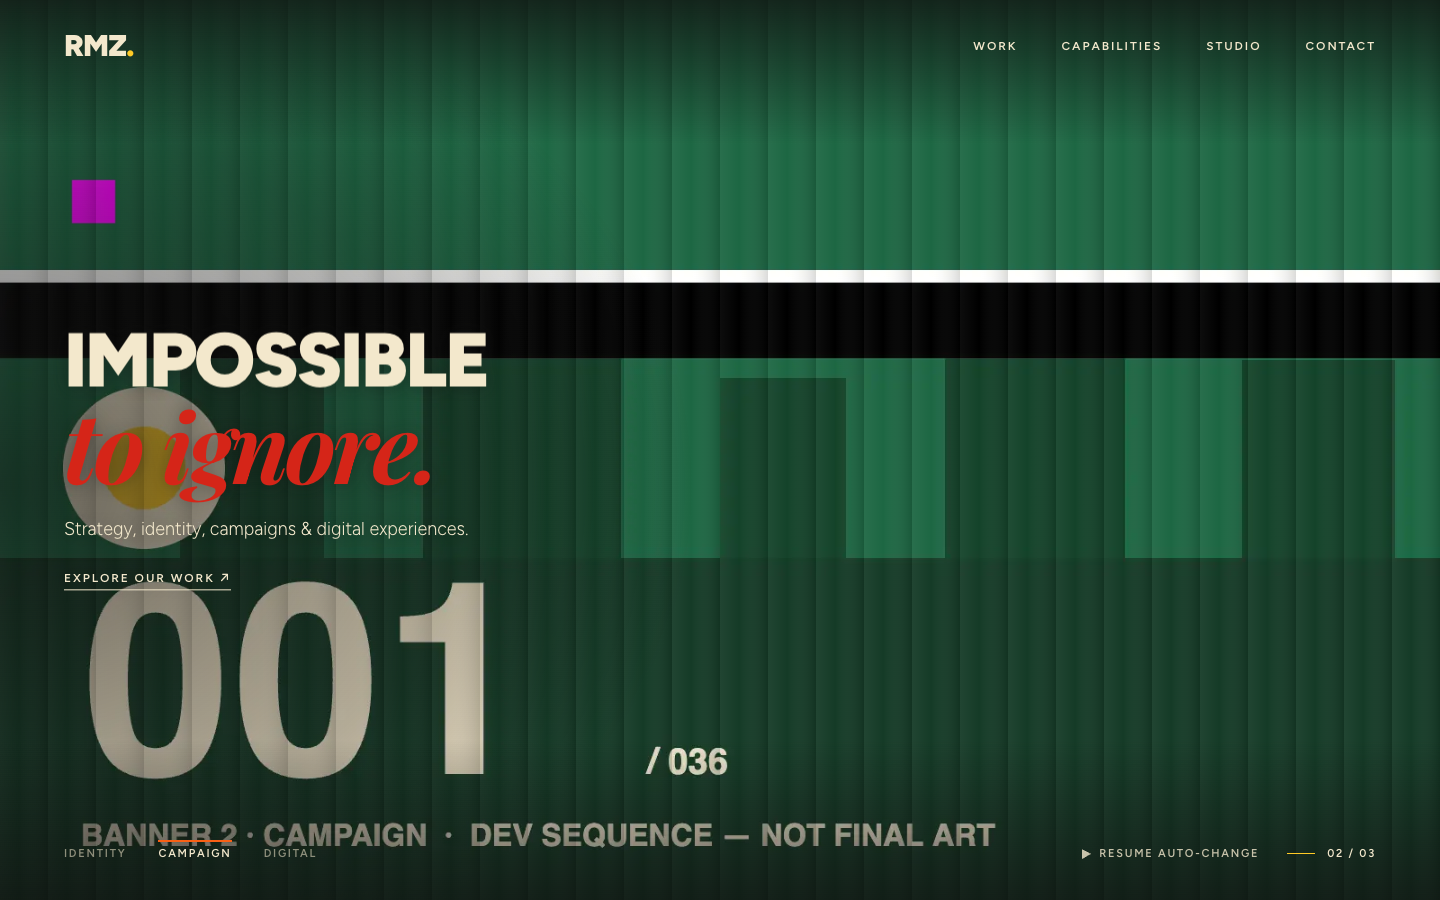
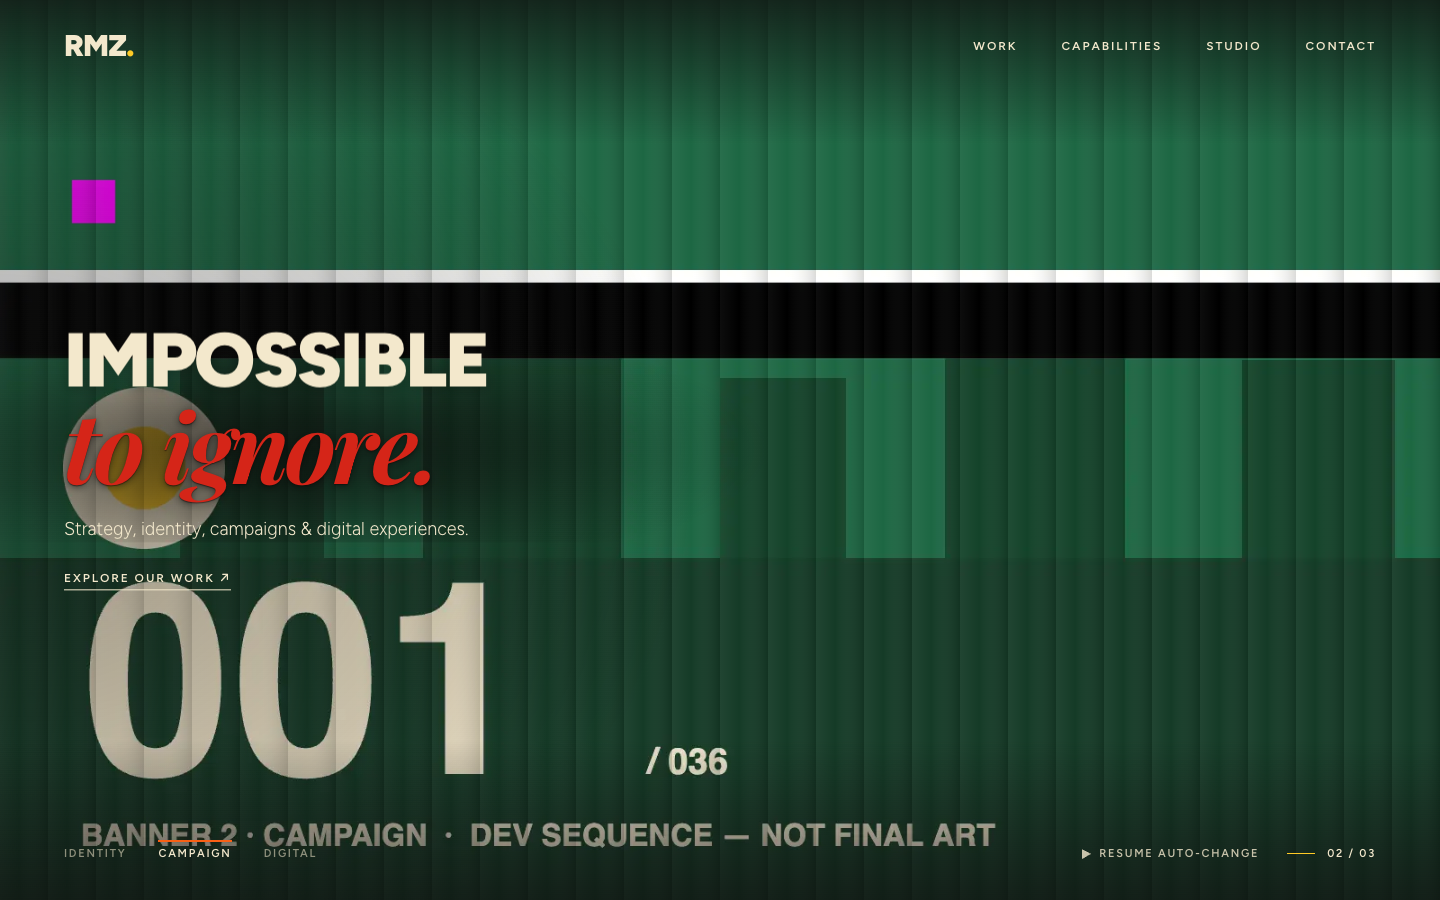
style(lab): copy-attached scrim + near-black text shadow for the red italic headline (prototype only)

diff --git a/src/components/home/hero-worlds/hero-worlds.css b/src/components/home/hero-worlds/hero-worlds.css
@@ -23,8 +23,17 @@
 .hw-fade-in { animation: hw-fade 700ms ease both; animation-delay: 300ms; }
 @keyframes hw-fade { from { opacity: 0; } to { opacity: 1; } }
 
+/* Scrim behind the headline, concentrated on the red italic line (the 2nd line, ≈ 62 % down the block). Elliptical radial gradient with a long
+   smooth tail (many stops, eased) → no box, no edge. Sized in em of the headline so it follows any copy length/size. */
+.hw-scrim { inset: -0.55em -1.1em -0.7em -0.9em; font-size: clamp(46px, 5.3vw, 84px); z-index: 0;
+  background: radial-gradient(ellipse 58% 50% at 40% 64%, rgba(10,9,8,.66) 0%, rgba(10,9,8,.56) 22%, rgba(10,9,8,.40) 42%, rgba(10,9,8,.22) 62%, rgba(10,9,8,.09) 80%, rgba(10,9,8,0) 100%); }
+@media (max-width: 767px) { .hw-scrim { font-size: clamp(38px, 11.4vw, 50px); inset: -0.7em -0.8em -0.9em -0.8em; background: radial-gradient(ellipse 66% 50% at 42% 64%, rgba(10,9,8,.66) 0%, rgba(10,9,8,.56) 24%, rgba(10,9,8,.38) 46%, rgba(10,9,8,.18) 68%, rgba(10,9,8,0) 100%); } }
+/* near-black edge separation for the red letters: tight, no glow, no outline */
+.hw-line.t-italic { text-shadow: 0 1px 1px rgba(8,7,6,.55), 0 2px 7px rgba(8,7,6,.5); }
+.hw-line.t-display { text-shadow: 0 1px 12px rgba(8,7,6,.3); }
+
 /* Restrained local contrast: a soft shade behind the copy only, fading out before the middle of the picture. */
-.hw-shade { background: radial-gradient(ellipse 62% 78% at 0% 54%, rgba(15,15,14,.62), rgba(15,15,14,.28) 52%, rgba(15,15,14,0) 78%); }
+.hw-shade { background: radial-gradient(ellipse 62% 78% at 0% 54%, rgba(15,15,14,.4), rgba(15,15,14,.18) 52%, rgba(15,15,14,0) 78%); }
 .hw-shade-b { background: linear-gradient(to top, rgba(15,15,14,.66), rgba(15,15,14,0)); }
 .hw-text-shadow { text-shadow: 0 1px 18px rgba(15,15,14,.35); }
 

diff --git a/src/components/home/hero-worlds/HeroThreeWorlds.tsx b/src/components/home/hero-worlds/HeroThreeWorlds.tsx
@@ -225,8 +225,11 @@ export function HeroThreeWorlds({ hero }: { hero: HeroContent }) {
 
         {/* ── Copy: inside the picture ─────────────────────────────── */}
         <div className="pointer-events-none absolute inset-x-(--gutter) bottom-[148px] md:bottom-auto md:top-1/2 md:-translate-y-[46%]">
-          <div className="hw-text-shadow max-w-[min(92vw,640px)]">
-            <h1 className="hw-phrases">
+          <div className="max-w-[min(92vw,640px)]">
+            <div className="relative">
+            {/* copy-attached scrim: lives in the text layout (not in the prism/image layer), centred behind the red word, fades to nothing */}
+            <div aria-hidden="true" className="hw-scrim pointer-events-none absolute" />
+            <h1 className="hw-phrases relative">
               {banners.map((b, i) => {
                 const p = phraseOf(b.id);
                 const state = i === face ? "active" : leaving.includes(i) ? "out" : "idle";
@@ -250,6 +253,7 @@ export function HeroThreeWorlds({ hero }: { hero: HeroContent }) {
                 );
               })}
             </h1>
+            </div>
             <p className="t-body hw-fade-in mt-5 max-w-[420px] text-[15px] text-cream md:mt-7 md:text-[18px]">{DESCRIPTION}</p>
             <a
               href="#work"
